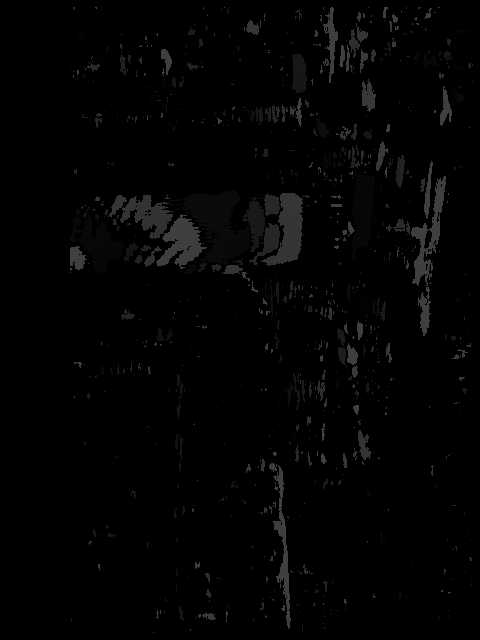
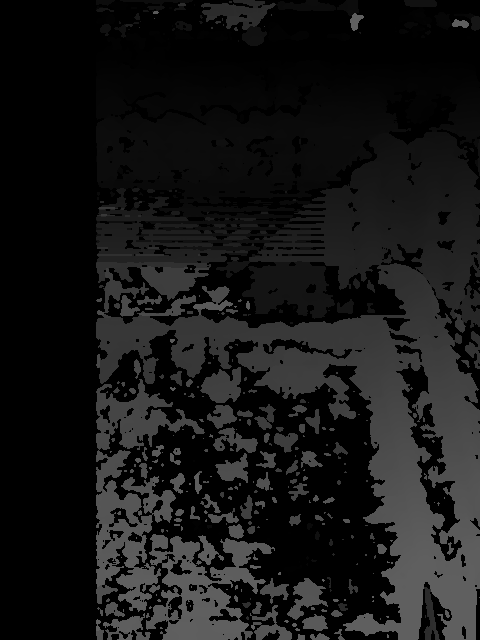
WIP
FindFundamentalMat で基礎行列を求めたあとにstereoRectifyUncalibrated で画像を平行化変換した画像組に対して
StereoSGBM を使って視差を求める。

しかしあまり精度良くはもとまっていない

diff --git a/scripts/depthFromSequence.cpp b/scripts/depthFromSequence.cpp
@@ -23,78 +23,15 @@ int main(int argc, char* argv[]) {
   
   img_size = input_images[0].size();  
 
-  vector<Mat> pano;
-  Stitcher stitcher = Stitcher::createDefault();
-  Stitcher::Status status = stitcher.estimateTransform(input_images);
-
-  if ( status != Stitcher::OK ) {
-    cout << "stitch failed " << status << ";;" << endl;
-    return -1;
-  }
-
-  for( int i = 0; i < stitcher.cameras_.size(); ++i ) {
-    detail::CameraParams cam = stitcher.cameras_[i];
-    cout << i << endl;
-    cout << " f = " << cam.focal << ", aspect = " << cam.aspect << endl;
-    cout << cam.R << endl; 
-    cout << cam.t << endl;
-    cout << cam.K() << endl;
-    cout << cam.R.type() << "," << cam.K().type() << endl;
-  }
-
-  detail::CameraParams cam1 = stitcher.cameras_.front();
-  detail::CameraParams cam2 = stitcher.cameras_.back();
-  Mat1d R, T, R1, P1, R2, P2, Q;
-  Mat1d distCoeffs(4,1);
-  distCoeffs.setTo(0);
-  R = cam1.R.inv() *cam2.R;
-  T = cam1.t;
-  cout << " R = " << R << endl;
-  cout << " T = " << T << endl;
-  cout << " R = " << R.type() << endl;
-  cout << " T = " << T .type()<< endl;
-
-
-  stereoRectify( cam1.K(), distCoeffs, cam2.K(), distCoeffs, img_size, 
-		 R, T, R1, R2, P1, P2, Q, CALIB_ZERO_DISPARITY, -1, img_size);
-  cout << R1 << endl;
-  cout << R2 << endl;
-
-  Mat map11, map12, map21, map22;
-  initUndistortRectifyMap(cam1.K(), distCoeffs, R1, P1, img_size, CV_16SC2, map11, map12);
-  initUndistortRectifyMap(cam2.K(), distCoeffs, R2, P2, img_size, CV_16SC2, map21, map22);
-
-  Mat img1r, img2r;
-  remap(input_images.front(), img1r, map11, map12, INTER_LINEAR);
-  remap(input_images.back() , img2r, map21, map22, INTER_LINEAR);
-
-  imwrite("tmp/img_00.png", img1r);
-  imwrite("tmp/img_01.png", img2r);
-
-  {
-    Mat disp_map( img1r.size(), CV_32F );
-    cv::StereoBM stereo;
-    stereo( img1r, img2r, disp_map);
-    disp_map /= 16.0;
-    Mat1b disp_1b(disp_map.size());
-    disp_map.convertTo(disp_1b, CV_8UC1);
-    imwrite("tmp/disp.png", disp_1b);
-  }
-
-
-  return 0;
-
   // initialize trackers
   {
     vector<Point2f> points;
     cv::goodFeaturesToTrack( input_images[0], points, MAX_CORNERS, 0.01, 10);
     cv::cornerSubPix(input_images[0], points, sub_pix_win_size, cv::Size(-1,-1), term_crit );
     track_points.push_back(points);
-    img_size = input_images[0].size();
   }
 
   std::vector<uchar> total_status(track_points[0].size(), 1);
-
 
   // tracking sequence
   for( int i = 1; i < input_images.size(); ++i ) {
@@ -126,8 +63,15 @@ int main(int argc, char* argv[]) {
 
     }
 
-    std::vector<Mat> camera_mats;
-    bundle_adjustment( track_points, camera_mats);
+    std::vector<uchar> find_fund_mat_status;
+    fund_mat = findFundamentalMat( points1, points2, find_fund_mat_status );
+
+    Mat H1, H2;
+    stereoRectifyUncalibrated( points1, points2, fund_mat, img_size, H1, H2);
+
+    warpPerspective( input_images.front(), rectified[0], H1, img_size, INTER_LINEAR, BORDER_REPLICATE);
+    warpPerspective( input_images.back() , rectified[1], H2, img_size, INTER_LINEAR, BORDER_REPLICATE);
+
     imwrite("tmp/img_00.png", rectified[0]);
     imwrite("tmp/img_01.png", rectified[1]);
 
@@ -137,6 +81,14 @@ int main(int argc, char* argv[]) {
   Mat disp_map( rectified[0].size(), CV_32F );
   {
     cv::StereoSGBM stereo;
+    stereo.minDisparity = 0.0;
+    stereo.numberOfDisparities = 96;
+    stereo.SADWindowSize = 11;
+    stereo.uniquenessRatio = 12.0;
+    stereo.P1 = 16 * 10 * 10;
+    stereo.P2 = 64 * 10 * 10;
+    stereo.preFilterCap = 20.0;
+    stereo.disp12MaxDiff = 0;
     stereo( rectified[0], rectified[1], disp_map);
     disp_map /= 16.0;
   }
